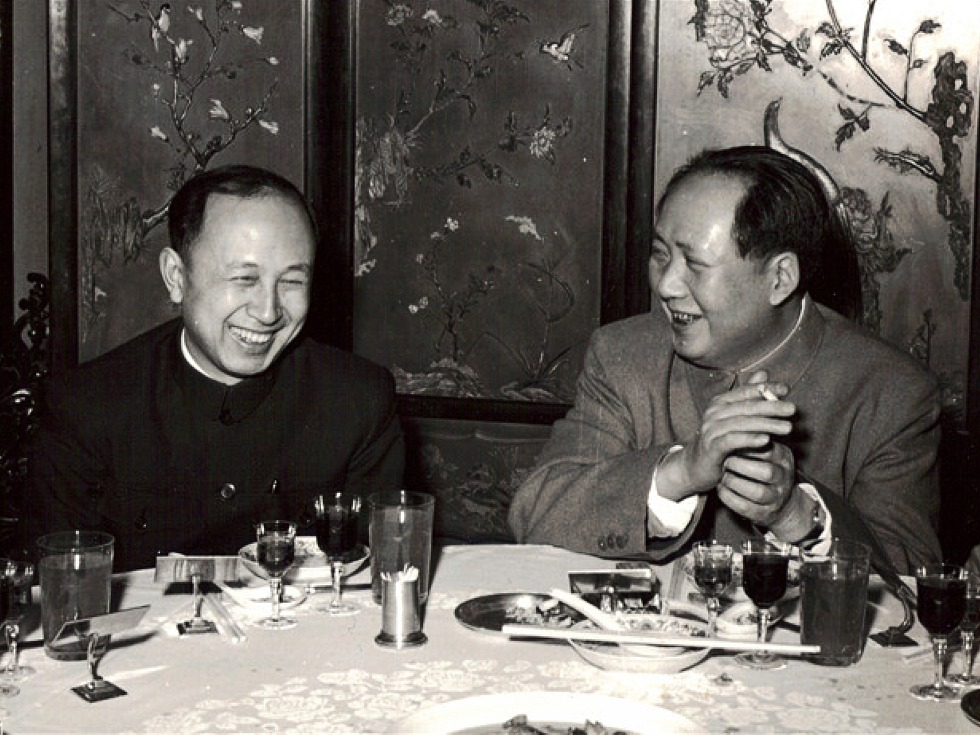
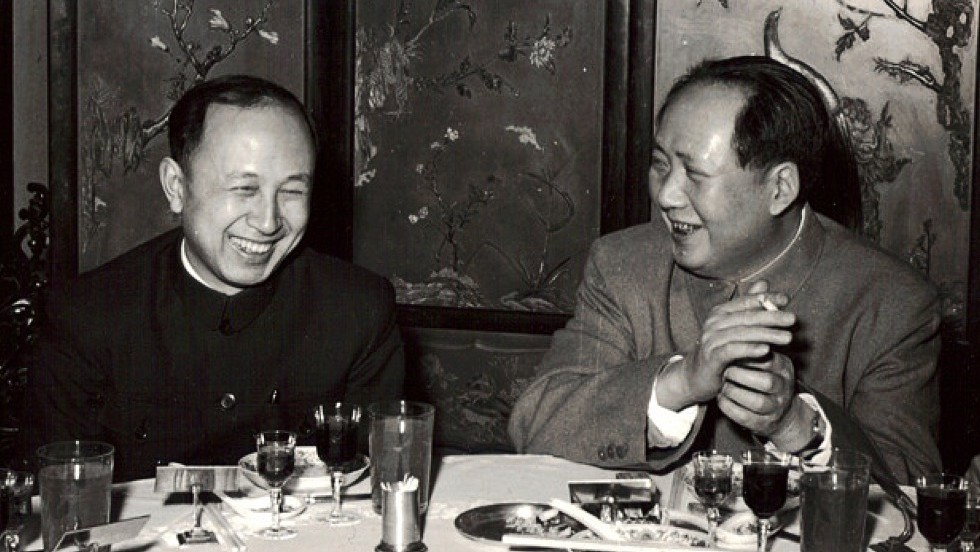
优化图片

diff --git a/index.html b/index.html
@@ -12,7 +12,18 @@
   </head>
 
   <body>
-    <h1>钱学森</h1>
+    <nav>
+      <ol>
+        <li><a href="#qxs">个人简介</a></li>
+        <li><a href="#events">重要事件</a></li>
+        <li><a href="#awards">晚年的活动及成就</a></li>
+        <li><a href="#works">主要著作</a></li>
+        <li><a href="#photos">生活照</a></li>
+        <li><a href="#life">生平</a></li>
+      </ol>
+    </nav>
+
+    <h1 id="qxs">钱学森</h1>
 
     <p>
       钱学森（1911.12.11－2009.10.31），汉族，生于上海，祖籍浙江省杭州市临安。世界著名科学家，空气动力学家，中国载人航天奠基人，中国科学院及中国工程院院士，中国两弹一星功勋奖章获得者。
@@ -21,7 +32,7 @@
       钱老被誉为“中国航天之父”“中国导弹之父”“中国自动化控制之父”和“火箭之王”，由于钱学森回国效力，中国导弹、原子弹的发射向前推进了至少20年。
     </p>
 
-    <h2>重要事件</h2>
+    <h2 id="events">重要事件</h2>
     <ul>
       <li>
         1935年9月，钱学森等20名庚款留美公费生，从上海搭乘杰克逊总统号轮船，赴美国西雅图。
@@ -59,7 +70,7 @@
       </li>
     </ul>
 
-    <h2>晚年的活动及成就</h2>
+    <h2 id="awards">晚年的活动及成就</h2>
     <ul>
       <li>1979年，钱学森被加州理工学院授予“杰出校友奖”。</li>
       <li>
@@ -83,7 +94,7 @@
       </li>
       <li>2008年9月13日钱学森塑像在中国科学技术大学落成。</li>
     </ul>
-    <h2>主要著作</h2>
+    <h2 id="works">主要著作</h2>
 
     <table>
       <thead>
@@ -147,18 +158,19 @@
       </tbody>
       <tfoot></tfoot>
     </table>
-    <h2>生活照</h2>
+    <h2 id="photos">生活照</h2>
 
-    <div><img width="500" src="images/1.jpeg" alt="钱学森照片1" /></div>
+    <div><img width="500" src="images/1.jpg" alt="钱学森照片1" /></div>
     <div><img width="500" src="images/2.jpg" alt="钱学森照片2" /></div>
     <div><img width="500" src="images/3.png" alt="钱学森照片3" /></div>
 
-    <h2>生平</h2>
+    <h2 id="life">生平</h2>
     <p>
       钱学森是中国著名科学家，1911年12月11日生于上海，1934年毕业于上海交通大学机械工程系，1935年赴美国研究航空工程和空气动力学，1938年获加利福尼亚理工学院博士学位。后留在美国任讲师、教授。1950年开始争取回归祖国，受到美国政府迫害，失去自由，历经5年于1955年才回到祖国，1958年起长期担任火箭导弹和航天器研制的技术领导职务。
     </p>
     <p>
       曾任中国力学学会、中国自动化学会、中国系统工程学会、中国宇航学会理事长、名誉理事长等职。现任国防科学技术工业委员会研究员、中国科技协会名誉主席等职。
     </p>
+    <div style="height: 1000px;"></div>
   </body>
 </html>
